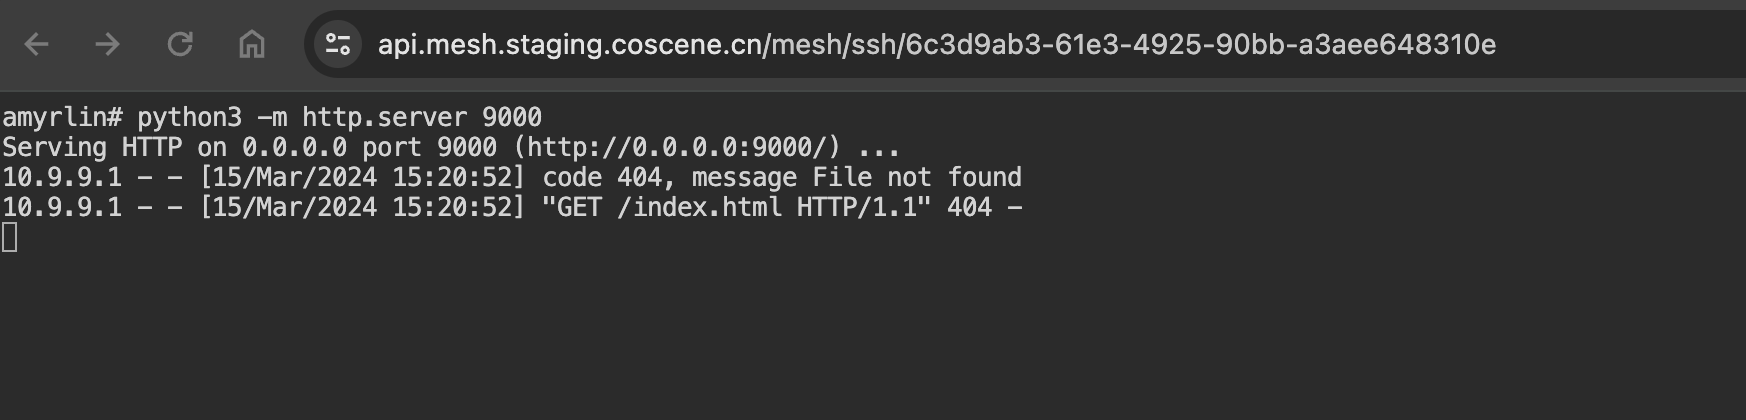
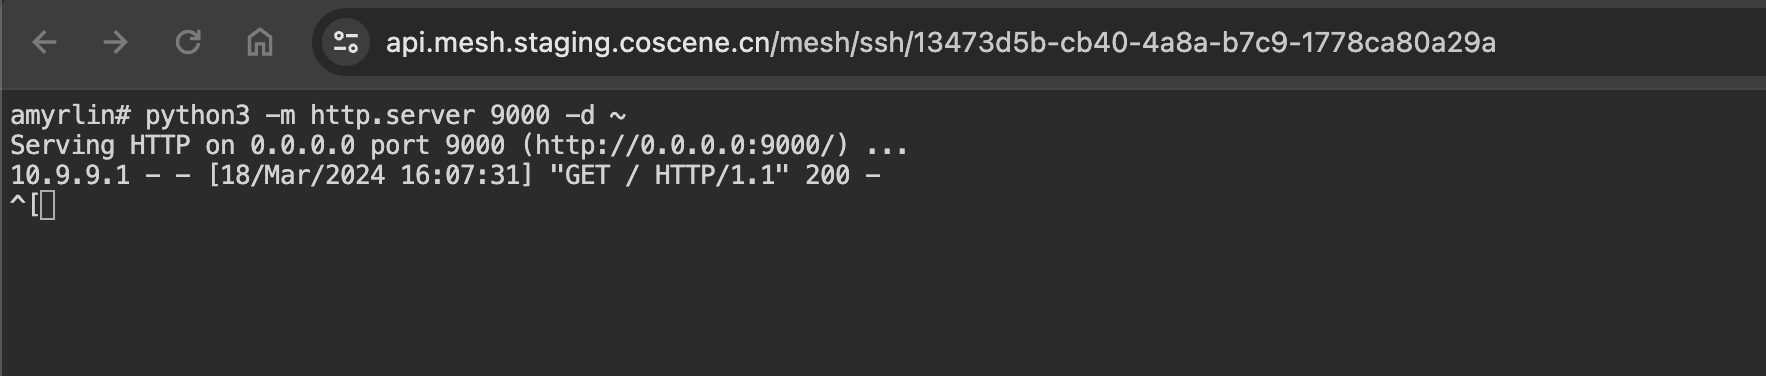
docs: update device doc

diff --git a/docs/4-recipes/3-device/6-device-remote-control.md b/docs/4-recipes/3-device/6-device-remote-control.md
@@ -45,16 +45,16 @@ sidebar_position: 6
 
 ![device port](./img/device-port.png)
 
-我们这里操作一个简单的示例。通过[网页 SSH]功能我们连接到远端机器，在机器上执行命令 `python3 -m http.server 9000` 运行一个简单的 HTTP Server，Server 监听了 9000 的端口，然后我们配置对机器端 9000 的端口进行转发。此时我们在本地浏览器请求映射后的地址，即可将请求转发至机器端。
+我们这里操作一个简单的示例。通过【网页 SSH】功能我们连接到远端机器，在机器上执行命令 `python3 -m http.server 9000 -d ~` 运行一个简单的 HTTP Server，会将`~`目录下的文件作为静态文件提供给用户访问。Server 监听了 9000 的端口，然后我们配置对机器端 9000 的端口进行转发。此时我们在本地浏览器请求映射后的地址，即可将请求转发至机器端。
 
 1. 网页端配置 9000 端口映射
 ![device port demo](./img/device-port-demo-1.png)
 
-2. 通过网页 SSH 在机器端启动简易 HTTP Server
+2. 通过网页 SSH 在机器端执行 `python3 -m http.server 9000 -d ~` 启动简易 HTTP Server
 ![device port demo](./img/device-port-demo-3.png)
 
-3. 在浏览器中请求相关地址
+3. 在浏览器中请求相关地址，发现列举了机器端 `~` 目录下的所有文件信息
 ![device port demo](./img/device-port-demo-2.png)
 
-4. 查看机器端的日志信息，发现浏览器的请求已经转发到了机器端，只是请求路径不存在，服务端返回了 404 的错误。
+4. 查看机器端的日志信息，发现浏览器的请求已经转发到了机器端，并且返回了 200 标识请求成功。
 ![device port demo](./img/device-port-demo-3.png)

diff --git a/i18n/en/docusaurus-plugin-content-docs/current/4-recipes/3-device/6-device-remote-control.md b/i18n/en/docusaurus-plugin-content-docs/current/4-recipes/3-device/6-device-remote-control.md
@@ -45,16 +45,16 @@ sidebar_position: 6
 
 ![device port](./img/device-port.png)
 
-我们这里操作一个简单的示例。通过[网页 SSH]功能我们连接到远端机器，在机器上执行命令 `python3 -m http.server 9000` 运行一个简单的 HTTP Server，Server 监听了 9000 的端口，然后我们配置对机器端 9000 的端口进行转发。此时我们在本地浏览器请求映射后的地址，即可将请求转发至机器端。
+我们这里操作一个简单的示例。通过【网页 SSH】功能我们连接到远端机器，在机器上执行命令 `python3 -m http.server 9000 -d ~` 运行一个简单的 HTTP Server，会将`~`目录下的文件作为静态文件可以直接访问。Server 监听了 9000 的端口，然后我们配置对机器端 9000 的端口进行转发。此时我们在本地浏览器请求映射后的地址，即可将请求转发至机器端。
 
 1. 网页端配置 9000 端口映射
 ![device port demo](./img/device-port-demo-1.png)
 
-2. 通过网页 SSH 在机器端启动简易 HTTP Server
+2. 通过网页 SSH 在机器端执行 `python3 -m http.server 9000 -d ~` 启动简易 HTTP Server
 ![device port demo](./img/device-port-demo-3.png)
 
-3. 在浏览器中请求相关地址
+3. 在浏览器中请求相关地址，发现列举了机器端 `~` 目录下的所有文件信息
 ![device port demo](./img/device-port-demo-2.png)
 
-4. 查看机器端的日志信息，发现浏览器的请求已经转发到了机器端，只是请求路径不存在，服务端返回了 404 的错误。
+4. 查看机器端的日志信息，发现浏览器的请求已经转发到了机器端，并且返回了 200 标识请求成功。
 ![device port demo](./img/device-port-demo-3.png)
